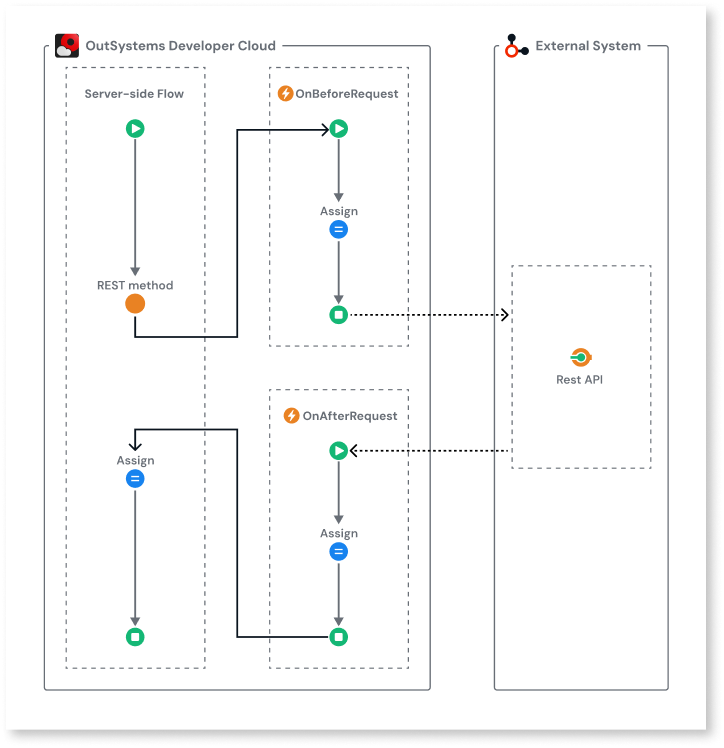
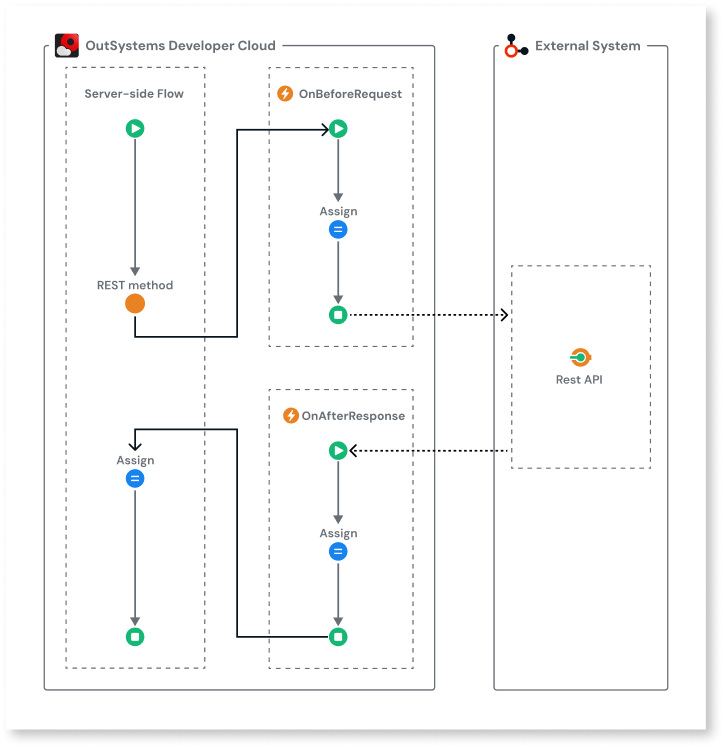
RDTKF-24436 Fix OnAfterRequest to OnAfterResponse in image

diff --git a/src/eap/integration-with-systems/consume_rest/simple-customizations.md b/src/eap/integration-with-systems/consume_rest/simple-customizations.md
@@ -30,7 +30,7 @@ When consuming a REST API, you can add logic to customize the information sent i
 **OnAfterResponse**
 :   Use to modify the information of the original response, such as the status code or the response text.
 
-![Diagram showing the flow of OnBeforeRequest and OnAfterResponse callbacks in OutSystems Developer Cloud.](images/callbacks-diag.png "Callbacks Diagram")
+![Diagram showing the flow of OnBeforeRequest and OnAfterRequest callbacks in OutSystems Developer Cloud.](images/callbacks-diag.png "Callbacks Diagram")
 
 <div class="info" markdown="1">
 
